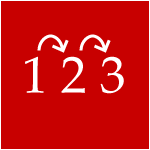
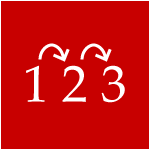
Images and styling changes

Changed region(s): [[0.16, 0.2133, 0.8533, 0.6933]]

diff --git a/css/follow-the-numbers.min.css b/css/follow-the-numbers.min.css
@@ -1,1 +1,1 @@
-@import url(http://fonts.googleapis.com/css?family=Lato:300,400,700);*,*:after,*:before{-webkit-box-sizing:border-box;-moz-box-sizing:border-box;box-sizing:border-box}.clearfix:before,.clearfix:after{content:" ";display:table}.clearfix:after{clear:both}body,html{font-size:100%;padding:0;margin:0}body{background:#ff6464;color:#fff;padding:0;margin:0 auto;font-family:'Lato',Calibri,Arial,sans-serif}a{color:#f0f0f0;text-decoration:none}#container{width:70%;margin:0 auto}#container>header{width:100%;margin:0 auto;padding:46px 30px 30px}#container>header h1{font-size:34px;line-height:1.3;margin:0;float:left;font-weight:400}#container>header span{display:block;font-weight:700;text-transform:uppercase;letter-spacing:8px;padding:0 0 10px 2px}#container>header nav{float:right}#container>header nav a{display:block;float:left;position:relative;width:40px;height:40px;background:#fff;-webkit-border-radius:50%;-moz-border-radius:50%;border-radius:50%;color:transparent;margin:0 2px;border:4px solid red}#container>header nav a:after{content:attr(data-info);color:#fff;position:absolute;width:600%;top:120%;text-align:right;right:0;opacity:0;pointer-events:none}#container>header nav a:hover:after{opacity:1}#container>header nav a:hover{background:#ff6464}#container>header nav a:hover:before{color:#fff}.icon-home:before,.icon-github:before{font-family:'fontawesome';position:absolute;top:0;width:100%;height:100%;speak:none;font-style:normal;font-weight:normal;line-height:2;text-align:center;color:#ff6464;-webkit-font-smoothing:antialiased}.icon-home:before{content:"\f015"}.icon-github:before{content:"\f113"}.main-content{background:#ff3939;-webkit-border-radius:10px;-moz-border-radius:10px;border-radius:10px;margin:0 auto 30px}.panel-container{padding:5% 5%;text-align:center}.panel-main{margin-bottom:10px}.title{font-size:48px;margin:0 0 16px;letter-spacing:3px}.subtitle{font-size:21px;margin:0 0 24px;letter-spacing:1px;color:rgba(255,255,255,0.9)}.sprite img{margin:30px 0}.btn-play{display:inline-block;padding:10px 70px;font-size:15px;font-weight:normal;text-align:center;color:#fff;background-color:#c60000;border:1px solid #9b0000;-webkit-border-radius:5px;-moz-border-radius:5px;border-radius:5px;cursor:pointer}.btn-play:hover{color:#fff;background-color:#e70000;border-color:#ba0000;outline:0 none}.panel-game{position:relative;width:60%;margin:0 auto}#replay{float:left}.icon-repeat{display:block;float:left;position:relative;width:40px;height:40px;background:#c60000;-webkit-border-radius:50%;-moz-border-radius:50%;border-radius:50%;color:transparent;border:4px solid #9b0000;cursor:pointer}.icon-repeat:before{font-family:'fontawesome';position:absolute;top:0;left:0;width:100%;height:100%;speak:none;font-style:normal;font-weight:normal;line-height:32px;text-align:center;color:#fff;-webkit-font-smoothing:antialiased;content:"\f01e"}.icon-repeat:after{content:attr(data-info);color:#fff;position:absolute;width:90px;top:5px;text-align:right;left:25px;opacity:0;pointer-events:none}.icon-repeat:hover{background:#fff}.icon-repeat:hover:before{color:#c60000}.icon-repeat:hover:after{opacity:1}#timer{float:left;padding:5px;border:2px solid #9b0000;-webkit-border-radius:10px;-moz-border-radius:10px;border-radius:10px;background:#c60000;color:#fff}#timer-value{font-weight:bold;-webkit-animation-duration:1s;-webkit-animation-delay:0;-webkit-animation-iteration-count:infinite;-moz-animation-duration:1s;-moz-animation-delay:0;-moz-animation-iteration-count:infinite;animation-duration:1s;animation-delay:0;animation-iteration-count:infinite}#score{float:right;padding:5px;border:2px solid #9b0000;-webkit-border-radius:10px;-moz-border-radius:10px;border-radius:10px;background:#c60000;color:#fff}.score-change{position:absolute;top:-10px;font-size:20px;font-weight:bold;right:6px}.gameboard{position:relative}.game-grid{padding:0;list-style:none;position:relative;background:#c60000;color:#fff}.game-grid li{display:table;position:relative;float:left;overflow:hidden;width:25%;cursor:pointer;border:1px solid #fff}.game-grid li:hover{background:#fff;color:#c60000}.game-grid li .content{display:table-cell;text-align:center;vertical-align:middle}.game-grid li.selected{background:#ff6464;border:1px solid #fff}.game-grid li.selected:hover{background:#ffb5e7}.game-grid li.selected:after{opacity:1}.game-grid li img{display:block;width:100%;cursor:pointer;max-width:100%}#result{position:absolute;top:0;margin:0 auto;background:rgba(58,58,58,0.8);display:table}#result-content{display:table-cell;text-align:center;vertical-align:middle;text-shadow:0 0 5px #000;-moz-text-shadow:0 0 5px #000;-webkit-text-shadow:0 0 5px #000}@media only screen and (min-device-width :320px) and (max-device-width :540px){#container{width:90%}.panel-game{width:99%}.game-grid li:after{width:20px;height:20px;font-size:13px}#image-to-guess{height:50px;width:50px}#result{left:0}}
+@import url(http://fonts.googleapis.com/css?family=Lato:300,400,700);*,*:after,*:before{-webkit-box-sizing:border-box;-moz-box-sizing:border-box;box-sizing:border-box}.clearfix:before,.clearfix:after{content:" ";display:table}.clearfix:after{clear:both}body,html{font-size:100%;padding:0;margin:0}body{background:#ff6464;color:#fff;padding:0;margin:0 auto;font-family:'Lato',Calibri,Arial,sans-serif}a{color:#f0f0f0;text-decoration:none}#container{width:70%;margin:0 auto}#container>header{width:100%;margin:0 auto;padding:46px 30px 30px}#container>header h1{font-size:34px;line-height:1.3;margin:0;float:left;font-weight:400}#container>header span{display:block;font-weight:700;text-transform:uppercase;letter-spacing:8px;padding:0 0 10px 2px}#container>header nav{float:right}#container>header nav a{display:block;float:left;position:relative;width:40px;height:40px;background:#fff;-webkit-border-radius:50%;-moz-border-radius:50%;border-radius:50%;color:transparent;margin:0 2px;border:4px solid red}#container>header nav a:after{content:attr(data-info);color:#fff;position:absolute;width:600%;top:120%;text-align:right;right:0;opacity:0;pointer-events:none}#container>header nav a:hover:after{opacity:1}#container>header nav a:hover{background:#d60000}#container>header nav a:hover:before{color:#fff}.icon-home:before,.icon-github:before{font-family:'fontawesome';position:absolute;top:0;width:100%;height:100%;speak:none;font-style:normal;font-weight:normal;line-height:2;text-align:center;color:#d60000;-webkit-font-smoothing:antialiased}.icon-home:before{content:"\f015"}.icon-github:before{content:"\f113"}.main-content{background:#ff3939;-webkit-border-radius:10px;-moz-border-radius:10px;border-radius:10px;margin:0 auto 30px}.panel-container{padding:5% 5%;text-align:center}.panel-main{margin-bottom:10px}.title{font-size:48px;margin:0 0 16px;letter-spacing:3px}.subtitle{font-size:21px;margin:0 0 24px;letter-spacing:1px;color:rgba(255,255,255,0.9)}.sprite img{margin:30px 0}.btn-play{display:inline-block;padding:10px 70px;font-size:15px;font-weight:normal;text-align:center;color:#fff;background-color:#c60000;border:1px solid #9b0000;-webkit-border-radius:5px;-moz-border-radius:5px;border-radius:5px;cursor:pointer}.btn-play:hover{color:#fff;background-color:#e70000;border-color:#ba0000;outline:0 none}.panel-game{position:relative;width:60%;margin:0 auto}#replay{float:left}.icon-repeat{display:block;float:left;position:relative;width:40px;height:40px;background:#c60000;-webkit-border-radius:50%;-moz-border-radius:50%;border-radius:50%;color:transparent;border:4px solid #9b0000;cursor:pointer}.icon-repeat:before{font-family:'fontawesome';position:absolute;top:0;left:0;width:100%;height:100%;speak:none;font-style:normal;font-weight:normal;line-height:32px;text-align:center;color:#fff;-webkit-font-smoothing:antialiased;content:"\f01e"}.icon-repeat:after{content:attr(data-info);color:#fff;position:absolute;width:90px;top:5px;text-align:right;left:25px;opacity:0;pointer-events:none}.icon-repeat:hover{background:#fff}.icon-repeat:hover:before{color:#c60000}.icon-repeat:hover:after{opacity:1}#timer{float:left;padding:5px;border:2px solid #9b0000;-webkit-border-radius:10px;-moz-border-radius:10px;border-radius:10px;background:#c60000;color:#fff}#timer-value{font-weight:bold;-webkit-animation-duration:1s;-webkit-animation-delay:0;-webkit-animation-iteration-count:infinite;-moz-animation-duration:1s;-moz-animation-delay:0;-moz-animation-iteration-count:infinite;animation-duration:1s;animation-delay:0;animation-iteration-count:infinite}#score{float:right;padding:5px;border:2px solid #9b0000;-webkit-border-radius:10px;-moz-border-radius:10px;border-radius:10px;background:#c60000;color:#fff}.score-change{position:absolute;top:-10px;font-size:20px;font-weight:bold;right:6px}.gameboard{position:relative}.game-grid{padding:0;list-style:none;position:relative;background:#c60000;color:#fff}.game-grid li{display:table;position:relative;float:left;overflow:hidden;width:25%;cursor:pointer;border:1px solid #fff}.game-grid li:hover{background:#fff;color:#c60000}.game-grid li .content{display:table-cell;text-align:center;vertical-align:middle}.game-grid li.selected{background:#ff6464;border:1px solid #fff}.game-grid li.selected:hover{background:#ffb5e7}.game-grid li.selected:after{opacity:1}.game-grid li img{display:block;width:100%;cursor:pointer;max-width:100%}#result{position:absolute;top:0;margin:0 auto;background:rgba(58,58,58,0.8);display:table}#result-content{display:table-cell;text-align:center;vertical-align:middle;text-shadow:0 0 5px #000;-moz-text-shadow:0 0 5px #000;-webkit-text-shadow:0 0 5px #000}@media only screen and (min-device-width :320px) and (max-device-width :540px){#container{width:90%}.panel-game{width:99%}.game-grid li:after{width:20px;height:20px;font-size:13px}#image-to-guess{height:50px;width:50px}#result{left:0}}

diff --git a/css/follow-the-numbers.css b/css/follow-the-numbers.css
@@ -104,7 +104,7 @@ a {
 }
 
 #container > header nav a:hover {
-    background: #ff6464;
+    background: #ad0000;
 }
 
 #container > header nav a:hover:before {
@@ -123,7 +123,7 @@ a {
     font-weight: normal;
     line-height: 2;
     text-align: center;
-    color: #ff6464;
+    color: #ad0000;
     -webkit-font-smoothing: antialiased;
 }
 
